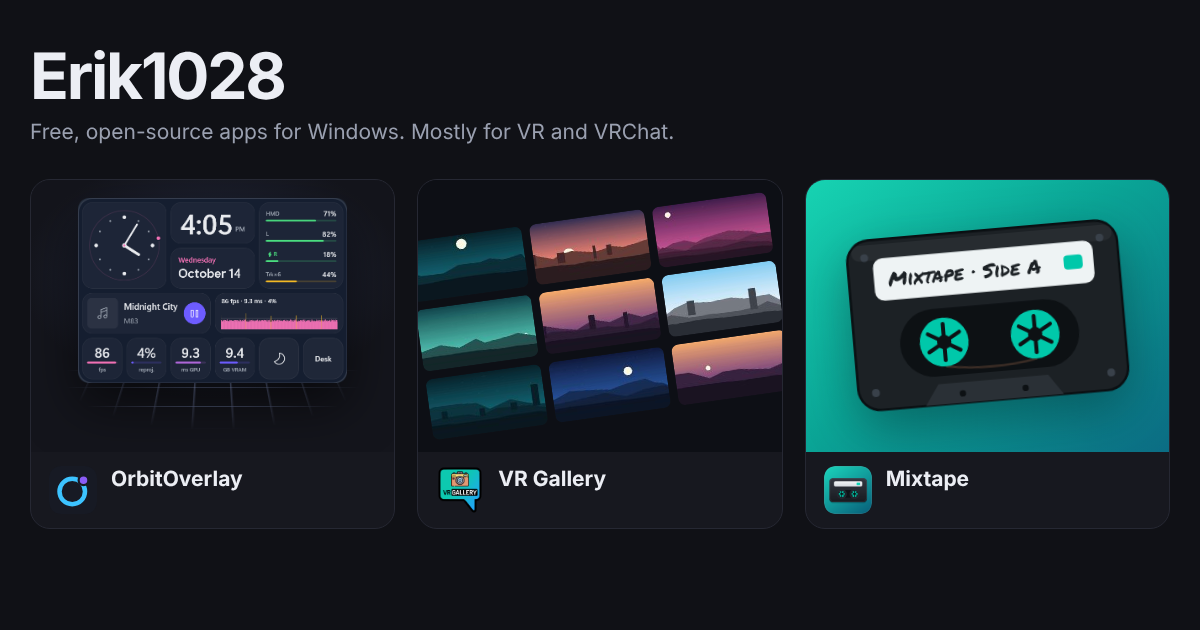
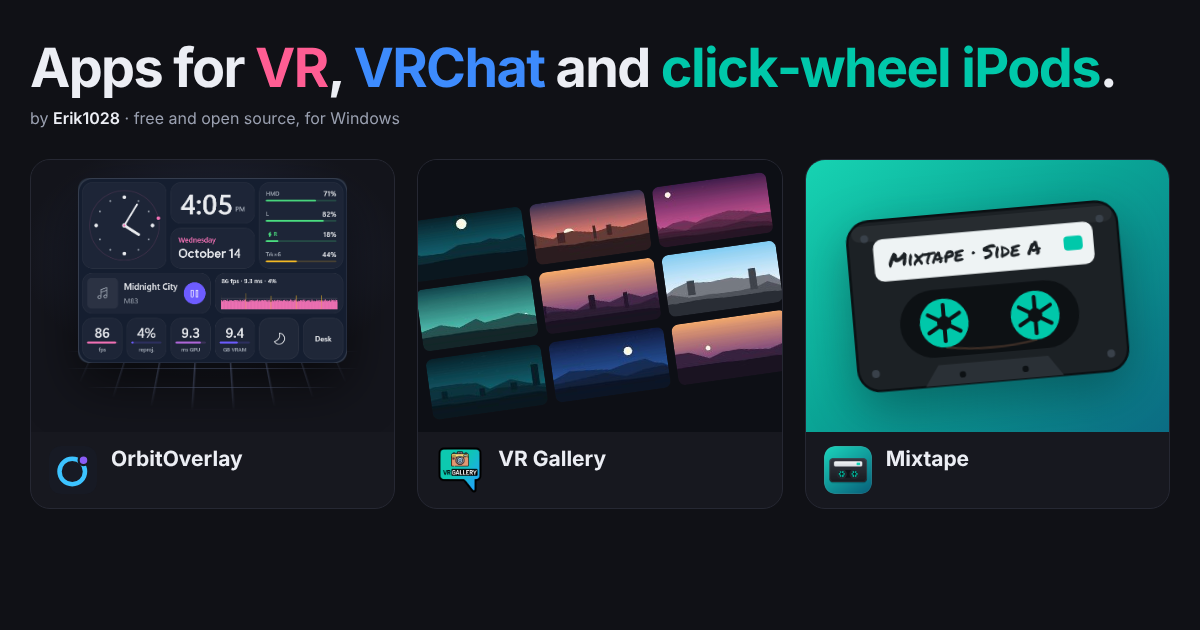
Headline about the apps instead of the name; by Erik1028 under it
Claude-Session: https://claude.ai/code/session_01YLRFbZ9d4qGLNjwNe752hj

diff --git a/index.html b/index.html
@@ -3,10 +3,10 @@
 <head>
 <meta charset="utf-8">
 <meta name="viewport" content="width=device-width, initial-scale=1">
-<title>Erik1028</title>
-<meta name="description" content="Free, open-source Windows apps by Erik1028: OrbitOverlay, VR Gallery and Mixtape.">
+<title>Erik1028 apps</title>
+<meta name="description" content="Apps for VR, VRChat and click-wheel iPods by Erik1028: OrbitOverlay, VR Gallery and Mixtape. Free and open source, for Windows.">
 <meta property="og:title" content="Erik1028's apps">
-<meta property="og:description" content="Free, open-source Windows apps: OrbitOverlay, VR Gallery and Mixtape.">
+<meta property="og:description" content="Apps for VR, VRChat and click-wheel iPods: OrbitOverlay, VR Gallery and Mixtape. Free and open source, for Windows.">
 <meta property="og:image" content="https://erik1028.github.io/og.png">
 <meta property="og:url" content="https://erik1028.github.io/">
 <meta name="twitter:card" content="summary_large_image">
@@ -27,10 +27,11 @@
 *{box-sizing:border-box}
 body{margin:0;background:var(--bg);color:var(--text);font-family:var(--sans);font-size:17px;line-height:1.55;-webkit-font-smoothing:antialiased}
 main{max-width:1180px;margin:0 auto;padding-block:72px 48px;padding-left:max(20px,env(safe-area-inset-left,0px));padding-right:max(20px,env(safe-area-inset-right,0px))}
-h1{font-family:var(--display);font-size:clamp(44px,7vw,84px);line-height:1;margin:0;letter-spacing:-0.035em}
-.lead{color:var(--dim);margin:14px 0 0;font-size:clamp(18px,2vw,21px);max-width:32em}
-.stripe{display:flex;gap:6px;margin-top:22px}
-.stripe i{height:5px;width:44px;border-radius:3px}
+h1{font-family:var(--display);font-size:clamp(38px,6.2vw,76px);line-height:1.04;margin:0;letter-spacing:-0.03em;max-width:13em;text-wrap:balance}
+h1 span{color:var(--acc)}
+.by{color:var(--dim);margin:18px 0 0;font-size:17px}
+.by a{color:var(--text);text-decoration:none;font-weight:600}
+.by a:hover{text-decoration:underline}
 .apps{display:grid;grid-template-columns:repeat(3,minmax(0,1fr));gap:22px;margin-top:48px}
 @media (max-width:900px){.apps{grid-template-columns:1fr;max-width:560px}}
 
@@ -81,9 +82,8 @@ footer a{color:var(--dim)}
 </head>
 <body>
 <main>
-<h1>Erik1028</h1>
-<p class="lead">Free, open-source apps for Windows. Mostly for VR and VRChat.</p>
-<div class="stripe" aria-hidden="true"><i style="background:#ff5d93"></i><i style="background:#3d8bfd"></i><i style="background:#00c8aa"></i></div>
+<h1>Apps for <span style="--acc:#ff5d93">VR</span>, <span style="--acc:#3d8bfd">VRChat</span> and <span style="--acc:#00c8aa">click&#8209;wheel iPods</span>.</h1>
+<p class="by">by <a href="https://github.com/Erik1028">Erik1028</a> · free and open source, for Windows</p>
 
 <div class="apps">
 
@@ -128,7 +128,7 @@ footer a{color:var(--dim)}
 
 </div>
 
-<footer>Made with an AI assistant and a lot of hands-on testing. <a href="https://github.com/Erik1028">github.com/Erik1028</a></footer>
+<footer>Made with an AI assistant and a lot of hands-on testing.</footer>
 </main>
 </body>
 </html>
